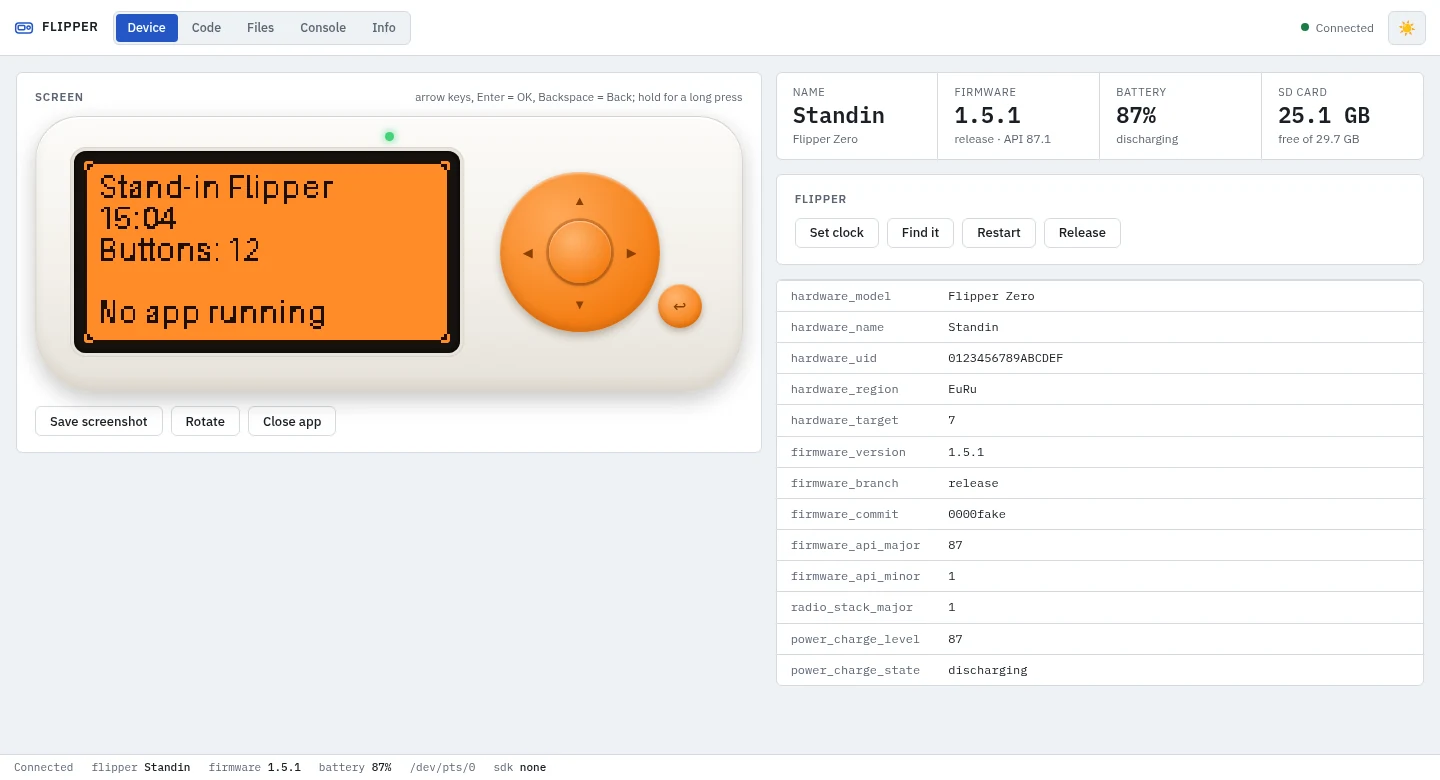
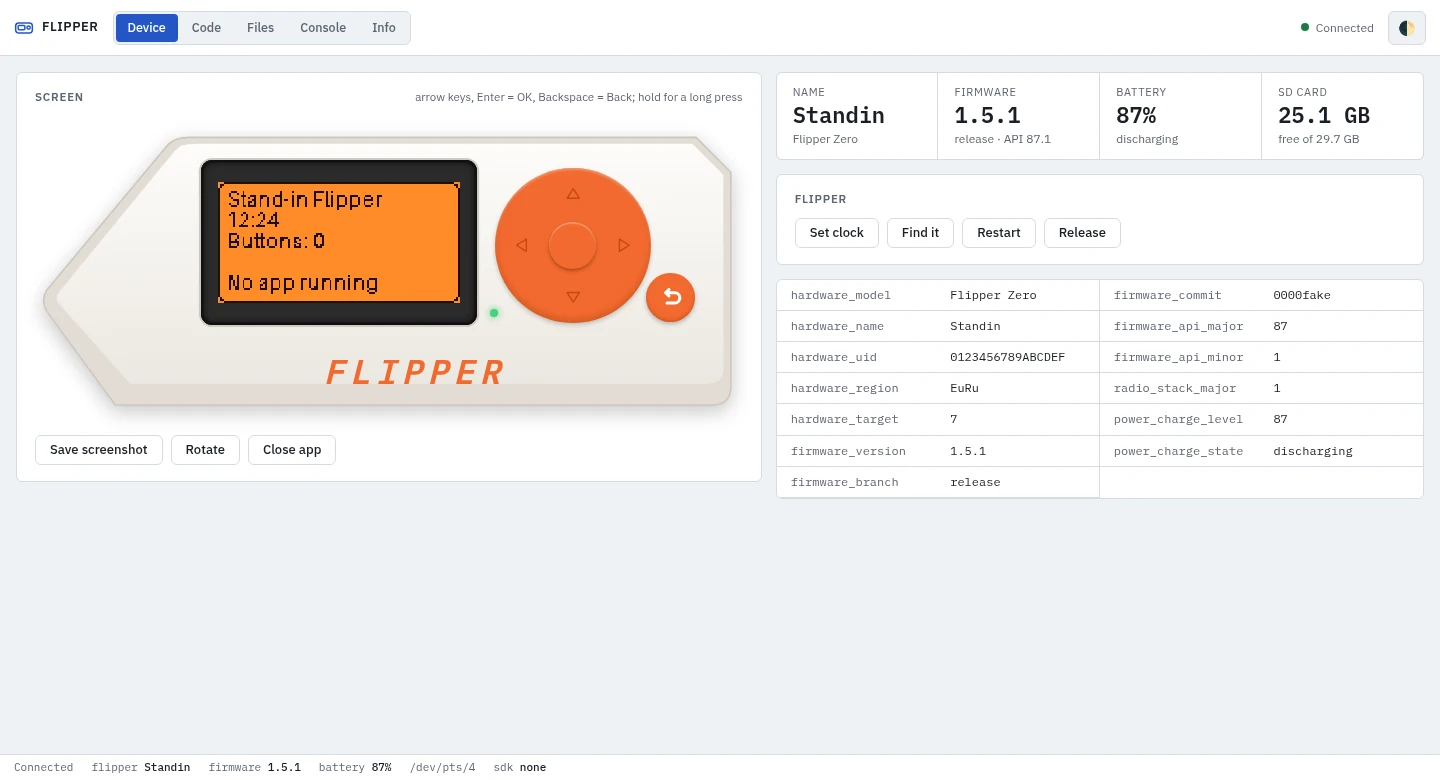
Flipper 0.1.2: the Device tab's Flipper looks like the real one (#244)
Pointed shell, screen in a dark frame, flat orange pad with outlined
arrows, Back beside it, LED next to the screen and the FLIPPER wordmark.
Placed in % so it keeps its shape at any width.

diff --git a/app-flipper/src/web/app.css b/app-flipper/src/web/app.css
@@ -170,48 +170,48 @@ table.list .acts .link-btn { margin-left: 12px; }
 
 /* ---------- The Flipper: screen and buttons ---------- */
 .device-grid { display: grid; grid-template-columns: minmax(0, 1.15fr) minmax(0, 1fr); gap: 14px; align-items: start; }
-/* The shell: white and rounded like the real one, the screen on the left, the round orange pad on the right */
-.flipper { position: relative; display: flex; flex-wrap: wrap; align-items: center; justify-content: center; gap: 26px 40px;
-    padding: 34px 38px 38px; border: 1px solid var(--shell-edge);
-    background: linear-gradient(180deg, #fcfbf9 0%, #f3f0ea 55%, #e6e1d9 100%);
-    border-radius: 44px 44px 58px 58px / 44px 44px 64px 64px;
-    box-shadow: inset 0 2px 0 #fff, inset 0 -8px 12px rgba(60,40,20,0.07), 0 8px 22px rgba(0,0,0,0.22); }
-.flipper .led { position: absolute; top: 15px; left: 50%; width: 9px; height: 9px; margin-left: -4px; border-radius: 50%;
-    background: #d9d3ca; box-shadow: inset 0 1px 2px rgba(0,0,0,0.25); }
-.flipper .led.on { background: #43d17a; box-shadow: 0 0 8px #43d17a; }
-.lcd { position: relative; flex: 1 1 320px; max-width: 560px; padding: 10px; border-radius: 12px; background: #17130f; line-height: 0;
-    box-shadow: 0 0 0 3px #e9e4dc, 0 0 0 4px var(--shell-edge), inset 0 0 6px #000; }
+/* The shell: the real outline (pointed on the left, the top right corner cut off), drawn as SVG.
+   Everything on it is placed in % of its width, so it keeps its proportions at any size. */
+.flipper { position: relative; width: 100%; aspect-ratio: 1322 / 570; container-type: inline-size; }
+.flipper > svg.shell { position: absolute; inset: 0; width: 100%; height: 100%; overflow: visible; filter: drop-shadow(0 6px 10px rgba(0,0,0,0.22)); }
+.flipper .led { position: absolute; left: 64.3%; top: 63.5%; width: 1.1cqw; height: 1.1cqw; border-radius: 50%;
+    background: #6a6560; box-shadow: inset 0 1px 1px rgba(0,0,0,0.6); }
+.flipper .led.on { background: #43d17a; box-shadow: 0 0 1cqw #43d17a; }
+.flipper .word { position: absolute; left: 33%; top: 78%; width: 41%; height: 12%; overflow: visible; }
+.lcd { position: relative; padding: 10px; border-radius: 12px; background: #17130f; line-height: 0; }
 .lcd canvas { width: 100%; height: auto; display: block; image-rendering: pixelated; border-radius: 4px; background: var(--lcd-bg); }
-.lcd.tall { flex: 0 1 220px; }
 .lcd-off { position: absolute; inset: 10px; display: none; align-items: center; justify-content: center; border-radius: 4px;
     background: color-mix(in srgb, var(--lcd-bg) 45%, #17130f); color: var(--lcd-ink); font-family: var(--mono); font-size: 12px; line-height: 1.4; }
 .lcd.off .lcd-off { display: flex; }
-.lcd.small { padding: 6px; border-radius: 8px; box-shadow: none; }
+/* The screen in its dark grey frame; a turned (tall) picture fits inside it */
+.flipper .lcd { position: absolute; left: 23.5%; top: 14.5%; width: 39%; height: 54%; padding: 2.2cqw 2.4cqw; border-radius: 1.6cqw;
+    background: #2b2b2b; box-shadow: inset 0 0 0 0.35cqw #111, inset 0 0 1.4cqw #000, 0 0 0 0.3cqw #cfcac2; }
+.flipper .lcd canvas { width: 100%; height: 100%; object-fit: contain; border-radius: 0; background: none; }
+.flipper .lcd-off { inset: 2.2cqw 2.4cqw; border-radius: 0; }
+.lcd.small { padding: 6px; border-radius: 8px; }
 .lcd.small .lcd-off { inset: 6px; }
 .pad { display: grid; grid-template-columns: repeat(3, 44px) 16px 44px; grid-template-rows: repeat(3, 44px); gap: 4px; flex-shrink: 0; }
 .pad button { border: 1px solid var(--shell-edge); background: #fff; color: var(--shell-ink); border-radius: 10px; cursor: pointer;
     font-size: 15px; display: flex; align-items: center; justify-content: center; touch-action: none; user-select: none; -webkit-user-select: none; }
-.pad button:hover { border-color: var(--lcd-bg); }
-.pad button.down { background: var(--lcd-bg); border-color: var(--lcd-bg); color: #fff; }
 .pad .k-up { grid-area: 1 / 2; } .pad .k-left { grid-area: 2 / 1; } .pad .k-ok { grid-area: 2 / 2; border-radius: 50%; font-size: 11px; font-weight: 600; }
 .pad .k-right { grid-area: 2 / 3; } .pad .k-down { grid-area: 3 / 2; } .pad .k-back { grid-area: 3 / 5; border-radius: 50%; }
-/* The real pad: one orange disc with the four directions on it, OK in the middle, Back beside it */
-.pad.real { position: relative; display: block; width: 204px; height: 160px; }
-.pad.real::before { content: ''; position: absolute; left: 0; top: 0; width: 160px; height: 160px; border-radius: 50%;
-    background: radial-gradient(circle at 35% 28%, #ffa858, #f57e14 70%);
-    box-shadow: 0 4px 8px rgba(60,30,0,0.3), inset 0 -5px 9px rgba(120,50,0,0.25), inset 0 2px 2px rgba(255,255,255,0.45); }
-.pad.real button { position: absolute; width: 50px; height: 50px; border: none; border-radius: 50%; background: transparent; color: #8a3f00; font-size: 13px; }
-.pad.real button:hover { background: rgba(255,255,255,0.16); }
-.pad.real button.down { background: rgba(110,45,0,0.28); color: #fff; }
-.pad.real .k-up { left: 55px; top: 3px; } .pad.real .k-down { left: 55px; top: 107px; }
-.pad.real .k-left { left: 3px; top: 55px; } .pad.real .k-right { left: 107px; top: 55px; }
-.pad.real .k-ok { left: 49px; top: 49px; width: 62px; height: 62px; font-size: 0;
-    background: radial-gradient(circle at 38% 30%, #ffb46e, #f57e14 75%);
-    box-shadow: 0 0 0 3px rgba(120,50,0,0.32), 0 2px 4px rgba(60,30,0,0.35), inset 0 1px 1px rgba(255,255,255,0.5); }
-.pad.real .k-back { left: 158px; top: 112px; width: 44px; height: 44px; font-size: 16px;
-    background: radial-gradient(circle at 38% 30%, #ffb46e, #f57e14 75%);
-    box-shadow: 0 3px 6px rgba(60,30,0,0.3), inset 0 -3px 5px rgba(120,50,0,0.25), inset 0 1px 1px rgba(255,255,255,0.45); }
-.pad.real .k-ok.down, .pad.real .k-back.down { background: #d96a08; box-shadow: 0 0 0 3px rgba(120,50,0,0.32), inset 0 2px 5px rgba(60,30,0,0.5); }
+/* The real pad: one flat orange disc with outlined arrows, OK in the middle, Back down to its right */
+.pad.real { position: absolute; display: block; left: 65%; top: 17%; width: 22%; height: auto; aspect-ratio: 1; }
+.pad.real::before { content: ''; position: absolute; inset: 0; border-radius: 50%; background: #f26a2e;
+    box-shadow: inset 0 -0.5cqw 0.9cqw rgba(120,40,0,0.25), inset 0 0.3cqw 0.3cqw rgba(255,255,255,0.3), 0 0.3cqw 0.6cqw rgba(0,0,0,0.2); }
+.pad.real button { position: absolute; padding: 0; border: none; border-radius: 50%; background: transparent; }
+.pad.real button svg { width: 38%; height: 38%; fill: none; stroke: #c24a14; stroke-width: 1.6; stroke-linejoin: round; pointer-events: none; }
+.pad.real button:hover { background: rgba(255,255,255,0.14); }
+.pad.real button.down { background: rgba(110,40,0,0.2); }
+.pad.real .k-up { left: 31%; top: 2%; width: 38%; height: 30%; } .pad.real .k-down { left: 31%; top: 68%; width: 38%; height: 30%; }
+.pad.real .k-left { left: 2%; top: 31%; width: 30%; height: 38%; } .pad.real .k-right { left: 68%; top: 31%; width: 30%; height: 38%; }
+.pad.real .k-ok { left: 35%; top: 35%; width: 30%; height: 30%; background: #f26a2e;
+    box-shadow: 0 0.3cqw 0.5cqw rgba(90,30,0,0.45), inset 0 0.2cqw 0.2cqw rgba(255,255,255,0.35); }
+.pad.real .k-back { left: 96.8%; top: 67.6%; width: 31.8%; height: 31.8%; background: #f26a2e;
+    box-shadow: 0 0.3cqw 0.6cqw rgba(0,0,0,0.25), inset 0 -0.3cqw 0.5cqw rgba(120,40,0,0.25); }
+.pad.real .k-back svg { width: 52%; height: 52%; stroke: #fff; stroke-width: 2.4; stroke-linecap: round; stroke-linejoin: round; }
+.pad.real .k-ok:hover, .pad.real .k-back:hover { background: #f57a42; }
+.pad.real .k-ok.down, .pad.real .k-back.down { background: #d4561d; box-shadow: inset 0 0.2cqw 0.5cqw rgba(60,20,0,0.5); }
 .pad.small { grid-template-columns: repeat(3, 34px) 10px 34px; grid-template-rows: repeat(3, 34px); margin: 12px auto 0; width: max-content; }
 .pad.small button { background: var(--ha-background); border-color: var(--divider-color); color: var(--primary-text-color); font-size: 13px; }
 .pad.small button.down { background: var(--primary-color); border-color: var(--primary-color); color: #fff; }

diff --git a/app-flipper/src/web/index.html b/app-flipper/src/web/index.html
@@ -42,7 +42,14 @@
     <div class="device-grid">
       <div class="panel"><div class="panel-body">
         <div class="title"><span>Screen</span><span class="hint">arrow keys, Enter = OK, Backspace = Back; hold for a long press</span></div>
-        <div class="flipper"><i class="led" id="led" aria-hidden="true"></i>
+        <div class="flipper">
+          <svg class="shell" viewBox="0 0 1322 570" preserveAspectRatio="none" aria-hidden="true">
+            <defs><linearGradient id="shell-face" x1="0" y1="0" x2="0" y2="1"><stop offset="0" stop-color="#fdfcfa"/><stop offset="1" stop-color="#ebe7e0"/></linearGradient></defs>
+            <path d="M290 40 H1235 L1300 105 V505 Q1300 540 1265 540 H150 L22 365 Q10 345 22 325 L250 52 Q262 40 290 40Z" fill="#e2ddd5" stroke="#cdc7bd" stroke-width="3" stroke-linejoin="round"/>
+            <path d="M300 52 H1228 L1286 110 V470 Q1286 500 1256 500 H178 L44 350 Q36 340 44 330 L262 64 Q272 52 300 52Z" fill="url(#shell-face)"/>
+          </svg>
+          <svg class="word" viewBox="0 0 540 70" aria-hidden="true"><text x="285" y="58" text-anchor="middle" font-family="'IBM Plex Mono', monospace" font-weight="700" font-size="66" letter-spacing="10" fill="#f26a2e" transform="skewX(-14)">FLIPPER</text></svg>
+          <i class="led" id="led" aria-hidden="true"></i>
           <div class="lcd" id="lcd-main"><canvas width="128" height="64" aria-label="The Flipper's screen"></canvas><div class="lcd-off">no picture</div></div>
           <div class="pad real" id="pad-main"></div>
         </div>

diff --git a/app-flipper/src/web/app.js b/app-flipper/src/web/app.js
@@ -150,9 +150,16 @@ function keyUp(key) {
   send({t: 'key', key, kind: 'release'});
   document.querySelectorAll(`.k-${key}`).forEach(b => b.classList.remove('down'));
 }
+// The big pad draws its arrows as outlines, like the print on the real one
+const REAL_GLYPH = {
+  up: '<svg viewBox="0 0 20 20"><path d="M10 4 17 15H3Z"/></svg>', down: '<svg viewBox="0 0 20 20"><path d="M10 16 17 5H3Z"/></svg>',
+  left: '<svg viewBox="0 0 20 20"><path d="M4 10 15 3V17Z"/></svg>', right: '<svg viewBox="0 0 20 20"><path d="M16 10 5 3V17Z"/></svg>',
+  ok: '', back: '<svg viewBox="0 0 20 20"><path d="M6 6h7a4 4 0 0 1 0 8H7"/><path d="M8.5 3.5 6 6l2.5 2.5"/></svg>',
+};
 const PAD = [['up', '▲', 'Up'], ['left', '◀', 'Left'], ['ok', 'OK', 'OK'], ['right', '▶', 'Right'], ['down', '▼', 'Down'], ['back', '↩', 'Back']];
 ['pad-main', 'pad-side'].forEach(id => {
-  $(id).innerHTML = PAD.map(([key, glyph, name]) => `<button type="button" class="k-${key}" data-key="${key}" aria-label="${name}" title="${name}">${glyph}</button>`).join('');
+  const real = $(id).classList.contains('real');
+  $(id).innerHTML = PAD.map(([key, glyph, name]) => `<button type="button" class="k-${key}" data-key="${key}" aria-label="${name}" title="${name}">${real ? REAL_GLYPH[key] : glyph}</button>`).join('');
   $(id).querySelectorAll('button').forEach(button => {
     const key = button.dataset.key;
     button.addEventListener('pointerdown', e => { e.preventDefault(); button.setPointerCapture(e.pointerId); keyDown(key); });

diff --git a/app-flipper/CHANGELOG.md b/app-flipper/CHANGELOG.md
@@ -1,5 +1,11 @@
 # Changelog
 
+## 0.1.2
+
+**After updating:** nothing to do.
+
+- **The Flipper on the Device tab looks like the real one:** pointed on the left, the screen in its dark frame, a flat orange pad with outlined arrows, Back beside it, the LED next to the screen and FLIPPER along the bottom. It keeps its shape at any width.
+
 ## 0.1.1
 
 **After updating:** nothing to do.
